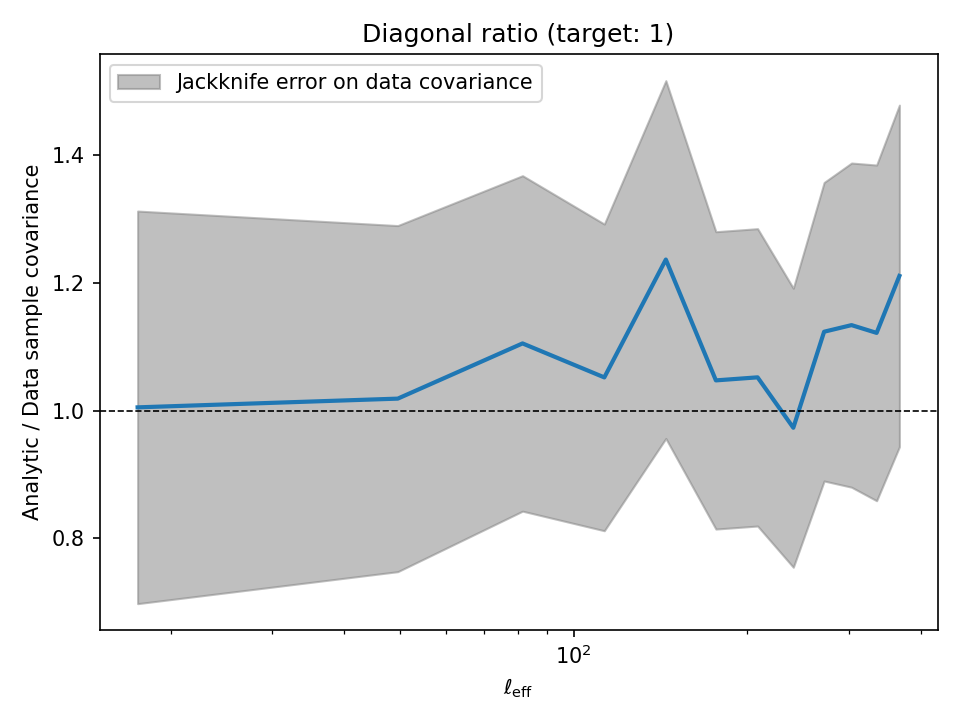
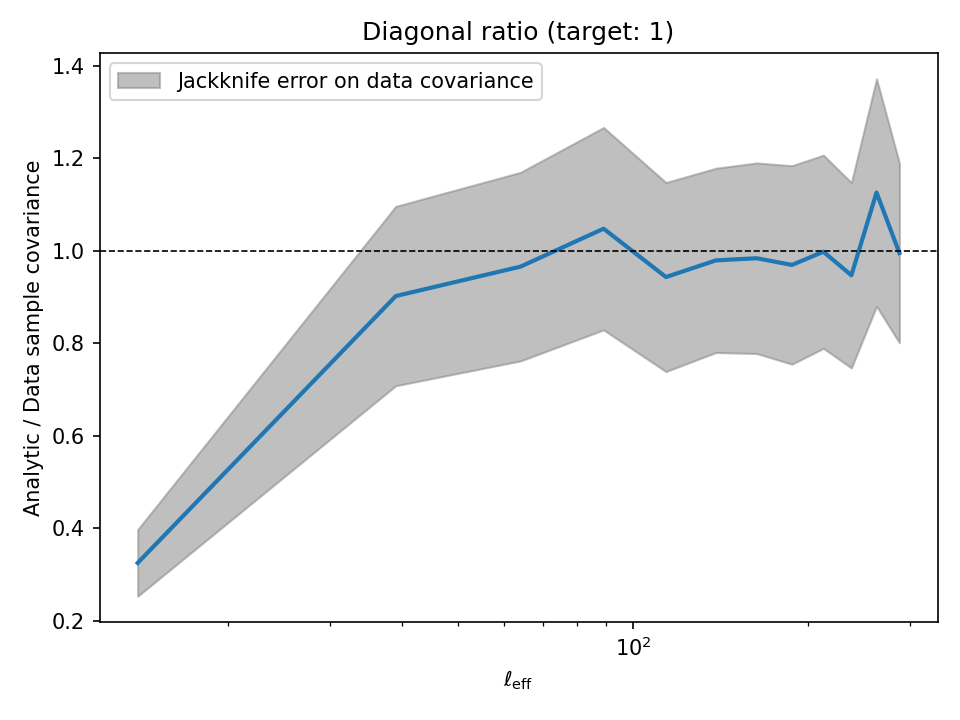
asdas

diff --git a/run_covariance.py b/run_covariance.py
@@ -25,8 +25,8 @@ from utils2 import *
 # Load data  ← edit this path as needed
 # ---------------------------------------------------------------------------
 
-#data = np.load("mock_masked_fixed.npz")
-data = np.load("./plots/mock_catalog.npz")
+data = np.load("./plots/mock_masked_fixed.npz")
+#data = np.load("./plots/mock_catalog.npz")
 
 print(data.files)
 
@@ -170,7 +170,6 @@ ax.set_title('Diagonal ratio (target: 1)')
 ax.legend()
 plt.tight_layout()
 plt.savefig('covariance_ratio.png', dpi=150)
-plt.show()
 
 np.savez(
     './plots/covariance_forecast_analytic.npz',